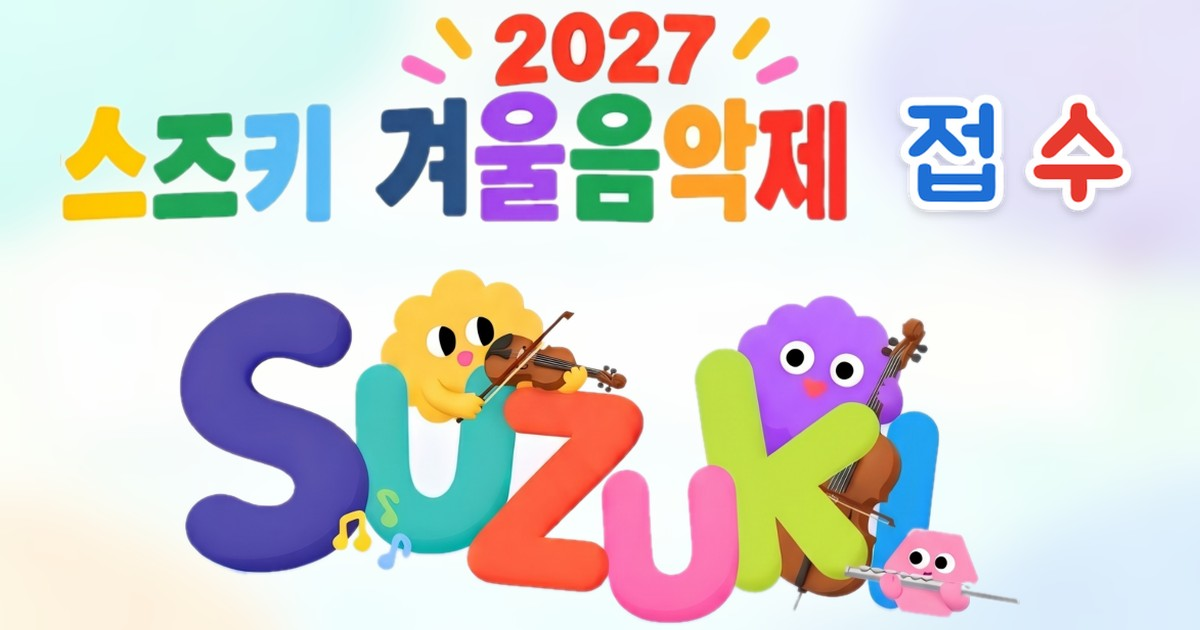
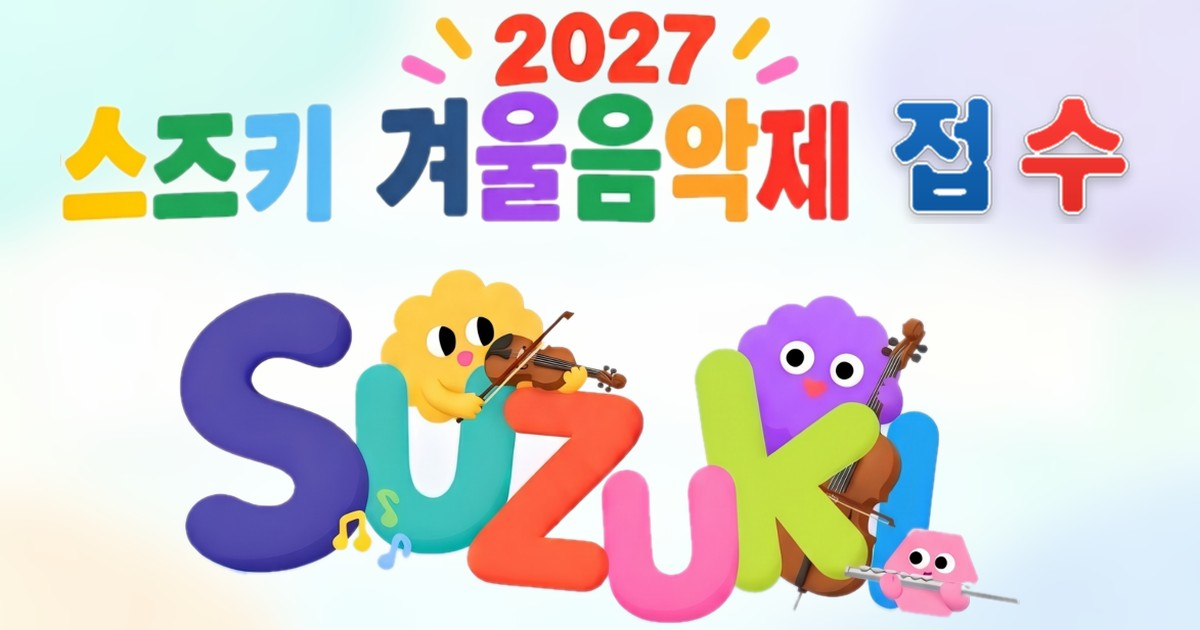
camp: 공유 그림 「접수」 글씨를 포스터 제목처럼 굵고 둥글게
Claude-Session: https://claude.ai/code/session_01McH2SMSpo6xGfG1xFNNs6e

diff --git a/camp/parent.html b/camp/parent.html
@@ -16,7 +16,7 @@
 <meta property="og:description" content="학원에서 받은 주소로 캠프 참가를 신청해요. 회원가입 없이 보호자 이름 · 휴대전화로.">
 <meta property="og:type" content="website">
 <meta property="og:site_name" content="스즈키 겨울 음악제">
-<meta property="og:image" content="https://app.suzukimusickorea.org/camp/og-poster.jpg?v=8">
+<meta property="og:image" content="https://app.suzukimusickorea.org/camp/og-poster.jpg?v=9">
 <meta property="og:image:width" content="1200">
 <meta property="og:image:height" content="630">
 <meta name="twitter:card" content="summary_large_image">

diff --git a/camp/new.html b/camp/new.html
@@ -15,7 +15,7 @@
 <meta property="og:url" content="https://app.suzukimusickorea.org/camp/new.html">
 <meta property="og:type" content="website">
 <meta property="og:site_name" content="스즈키 겨울 음악제">
-<meta property="og:image" content="https://app.suzukimusickorea.org/camp/og-poster.jpg?v=8">
+<meta property="og:image" content="https://app.suzukimusickorea.org/camp/og-poster.jpg?v=9">
 <meta property="og:image:width" content="1200">
 <meta property="og:image:height" content="630">
 <meta name="twitter:card" content="summary_large_image">
